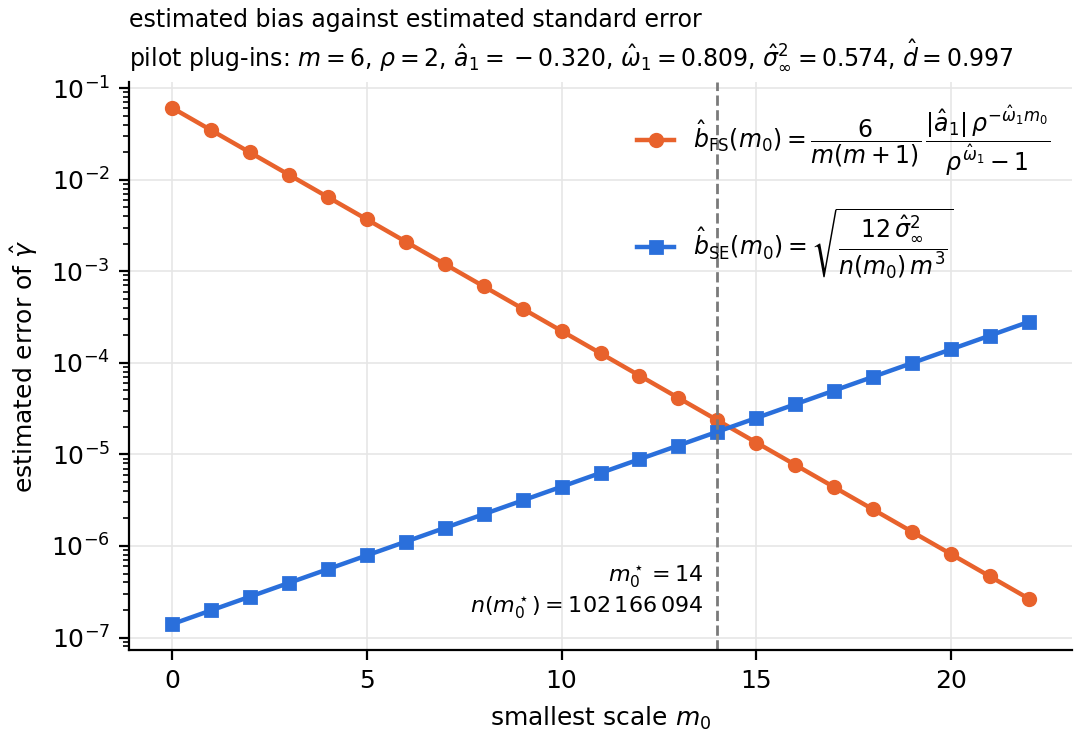
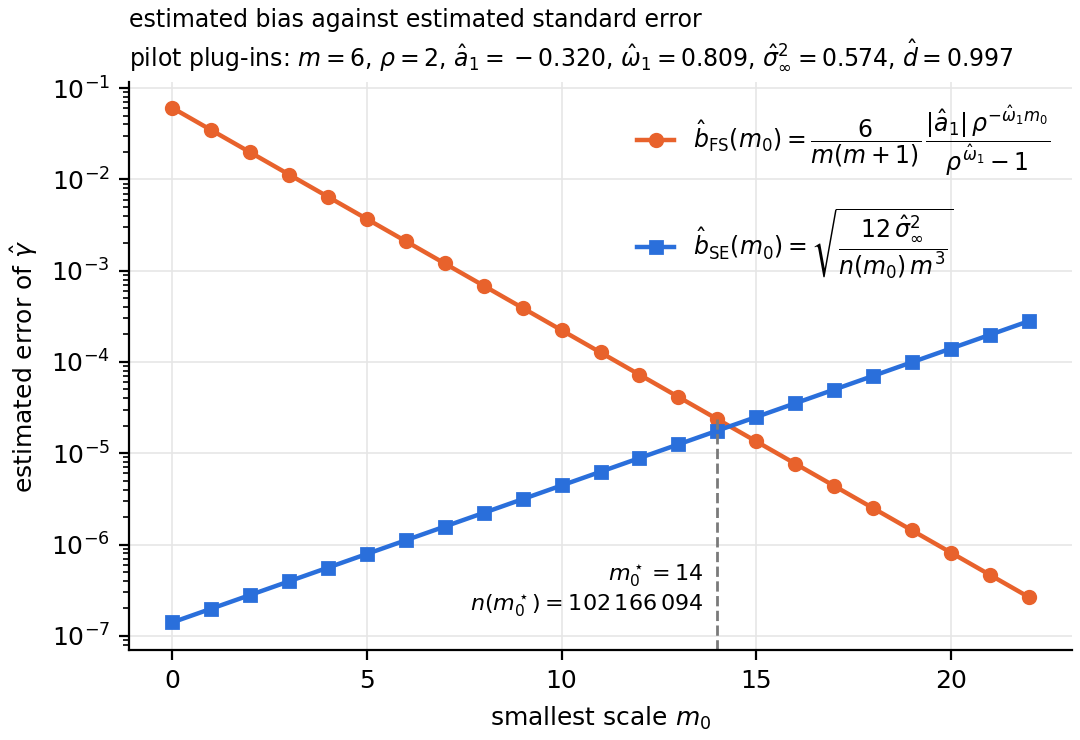
stop experiment 46's m0* line at the crossing
It ran behind the legend's formulas.

diff --git a/experiments/46_pipeline_erwurn_gpu/plot_pipeline.py b/experiments/46_pipeline_erwurn_gpu/plot_pipeline.py
@@ -173,7 +173,10 @@ def fig_allocation(d: dict, rho: float):
                       r"\dfrac{|\hat a_1|\,\rho^{-\hat\omega_1 m_0}}{\rho^{\hat\omega_1}-1}$")
     ax.semilogy(t["m0"], t["se"], "s-", color=DATA,
                 label=r"$\hat b_{\rm SE}(m_0)=\sqrt{\dfrac{12\,\hat\sigma^2_\infty}{n(m_0)\,m^3}}$")
-    ax.axvline(j, color=REF, ls="--", lw=1)
+    # Stops at the crossing, so it never runs behind the formulas in the legend.
+    lo = min(t["fs"].min(), t["se"].min()) / 2
+    ax.set_ylim(bottom=lo)
+    ax.vlines(j, lo, max(t["fs"][j], t["se"][j]), color=REF, ls="--", lw=1)
     ax.annotate(rf"$m_0^\star={j}$" "\n" rf"$n(m_0^\star)={thin(t['n'][j])}$",
                 (j, t["se"][0]), xytext=(-5, 4), textcoords="offset points",
                 ha="right", fontsize=8)
